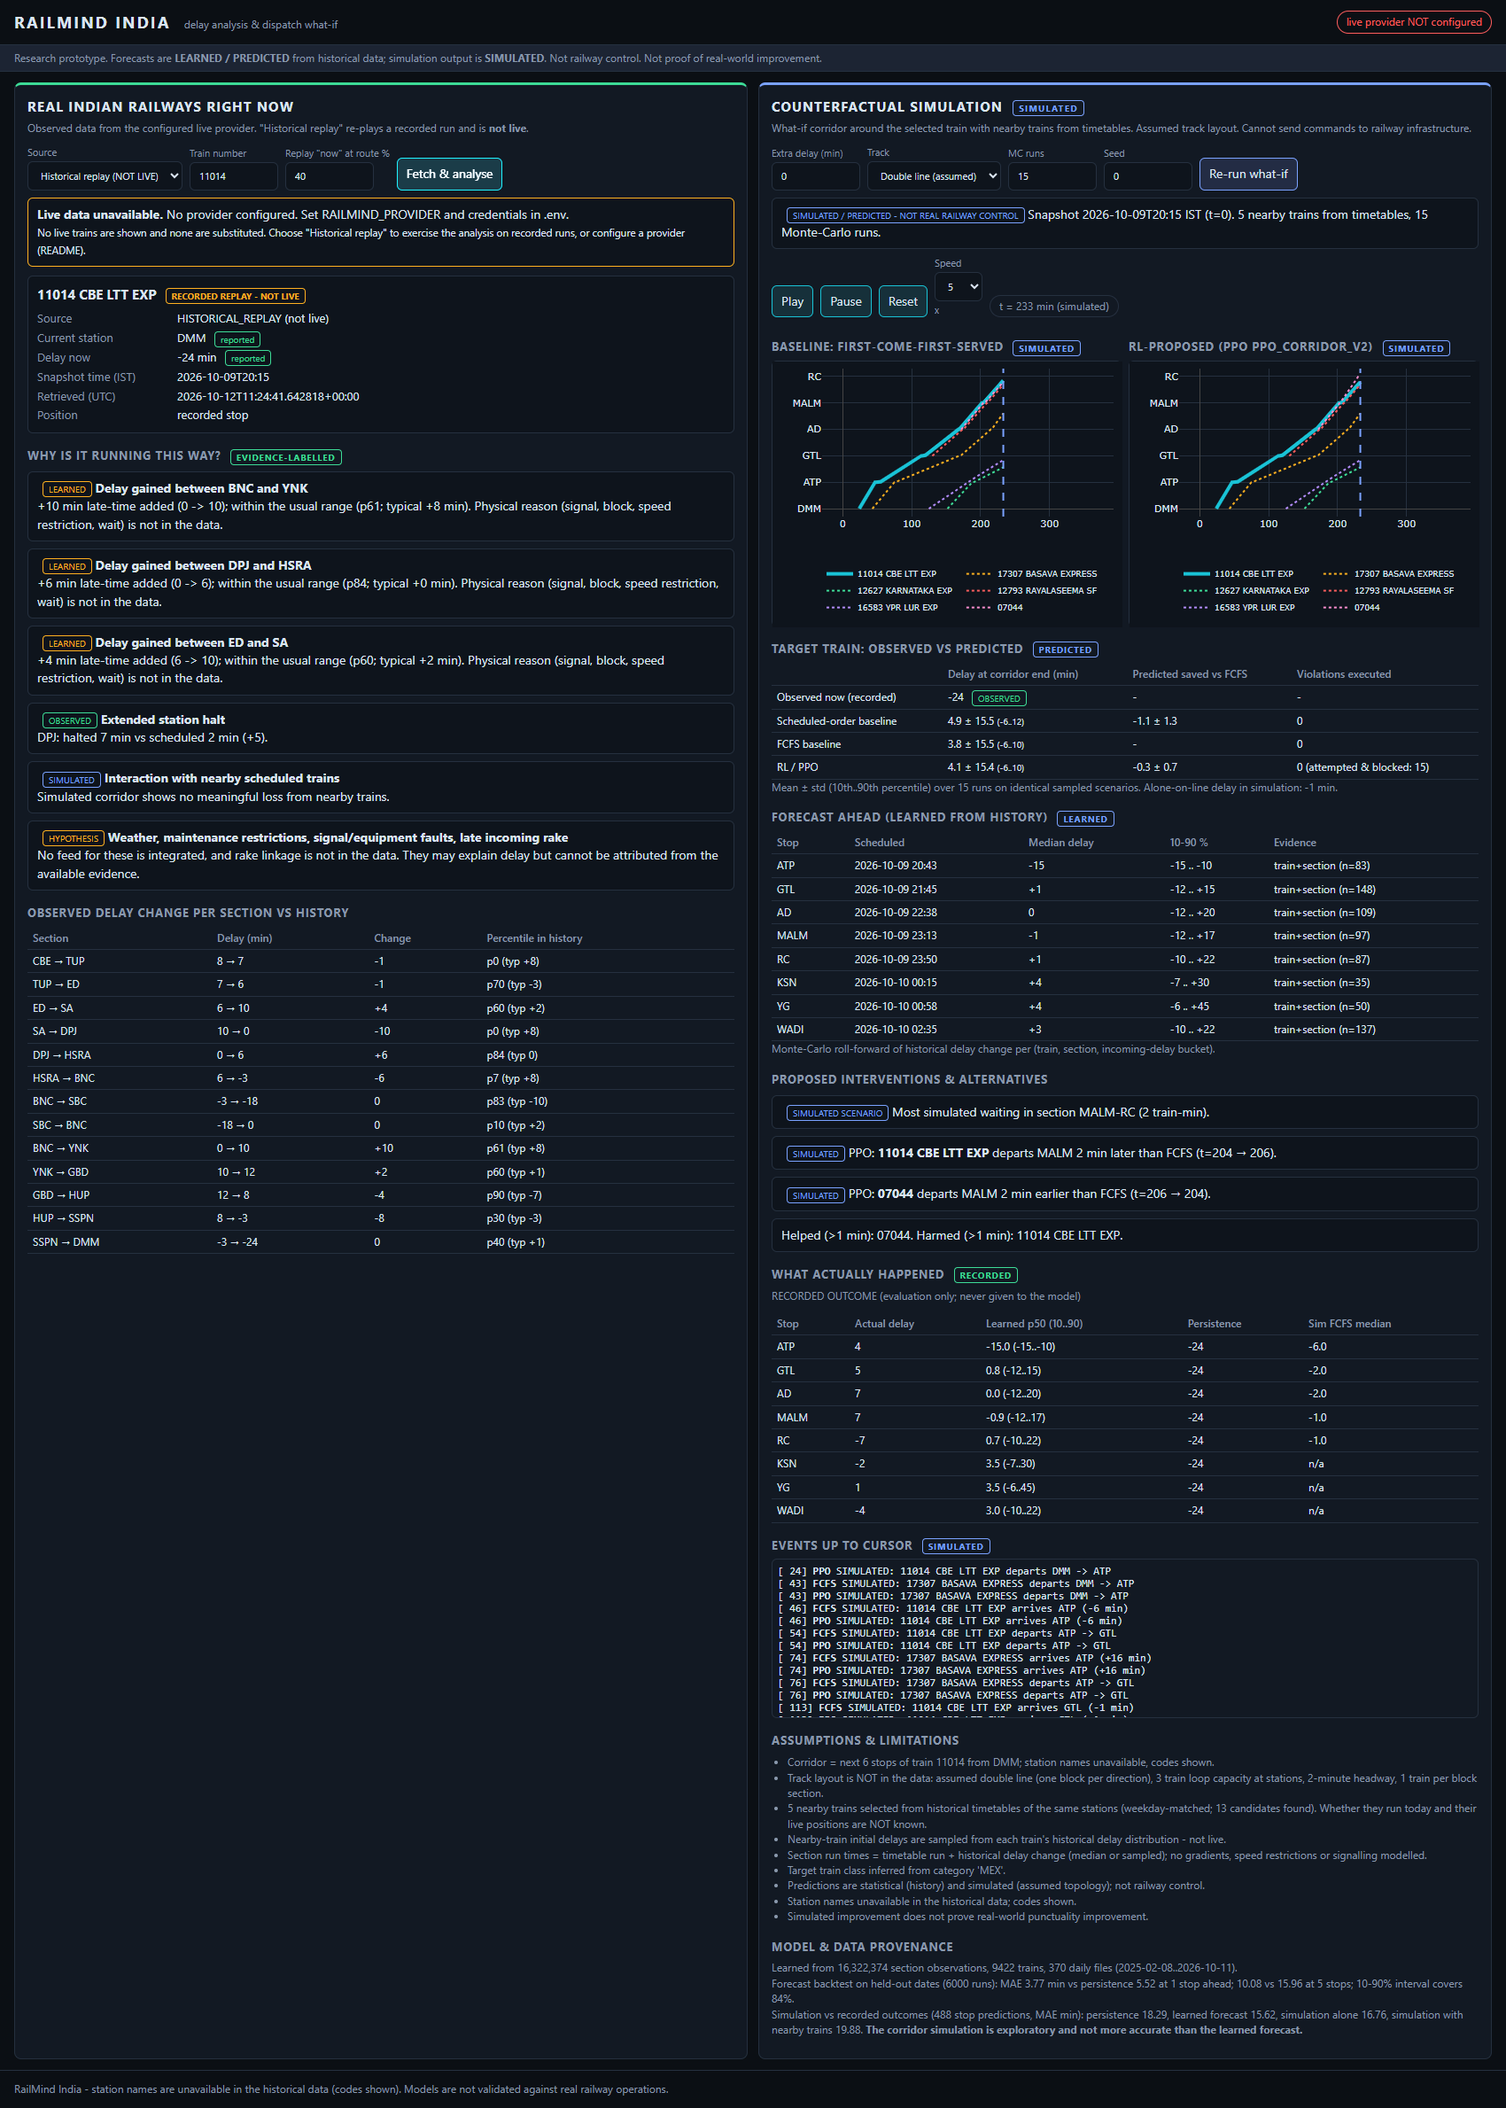
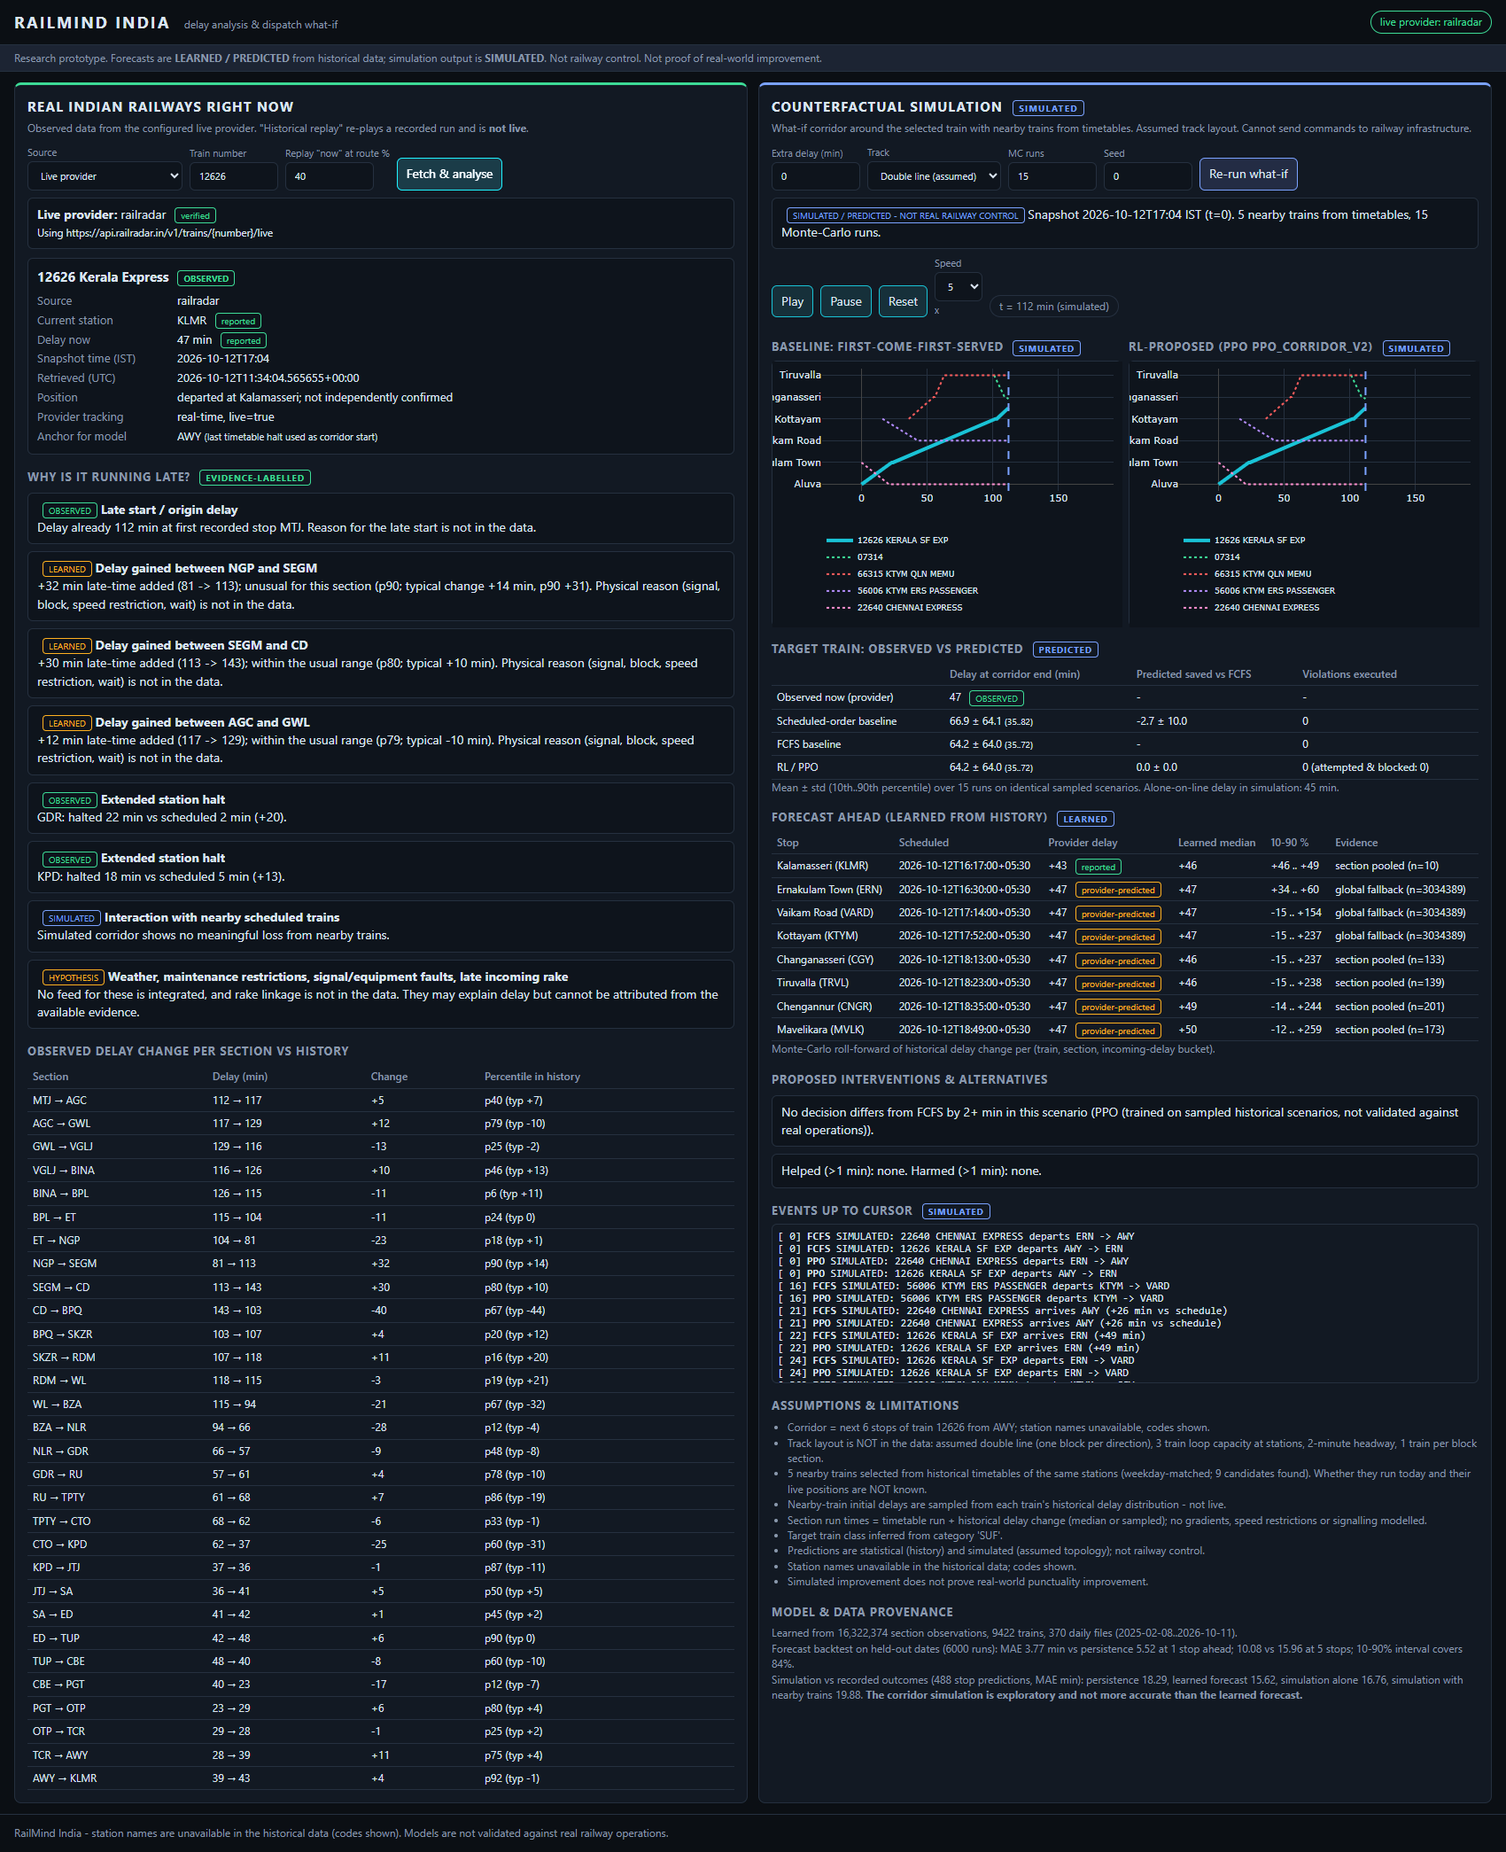
Verify live provider adapter against real responses, use provider names and provenance, add live dashboard capture

Changed region(s): [[0.0, 0.0, 1.0, 0.9952], [0.3118, 0.2177, 0.3429, 0.2799], [0.3741, 0.2488, 0.4053, 0.2799]]

diff --git a/static/app.js b/static/app.js
@@ -82,7 +82,7 @@ async function run() {
 function renderAll() {
   const a = state.a, replay = a.source.startsWith("HISTORICAL");
   const rows = (a.learned_forecast.stops || []).map((r) =>
-    `<tr><td>${esc(r.station)}</td><td>${esc(r.sched_arr || "-")}</td><td>${sgn(r.p50)}</td><td>${sgn(r.p10)} .. ${sgn(r.p90)}</td><td>${r.evidence_level === 1 ? "train+section" : r.evidence_level === 2 ? "section pooled" : "global fallback"} (n=${r.support_n})</td></tr>`).join("");
+    `<tr><td>${esc(r.name ? r.name + " (" + r.station + ")" : r.station)}</td><td>${esc(r.sched_arr || "-")}</td><td>${r.provider_estimate === null || r.provider_estimate === undefined ? "-" : sgn(r.provider_estimate) + (r.provenance === "predicted" ? ' <span class="tag calc">provider-predicted</span>' : ' <span class="tag obs">reported</span>')}</td><td>${sgn(r.p50)}</td><td>${sgn(r.p10)} .. ${sgn(r.p90)}</td><td>${r.evidence_level === 1 ? "train+section" : r.evidence_level === 2 ? "section pooled" : "global fallback"} (n=${r.support_n})</td></tr>`).join("");
   $("train").innerHTML = `<div class="card">
     <h4>${esc(a.train_no)} ${esc(a.train_name || "(name not supplied)")} <span class="tag ${replay ? "calc" : "obs"}">${replay ? "RECORDED REPLAY - NOT LIVE" : "OBSERVED"}</span></h4>
     <div class="kv">
@@ -91,7 +91,9 @@ function renderAll() {
       <div>Delay now</div><div>${fx(a.observed_delay_min)} min <span class="tag obs">reported</span></div>
       <div>Snapshot time (IST)</div><div>${esc(a.now_ist)}</div>
       <div>Retrieved (UTC)</div><div>${esc(a.retrieved_utc)}</div>
-      <div>Position</div><div>${replay ? "recorded stop" : "provider-reported; not independently confirmed"}</div>
+      <div>Position</div><div>${replay ? "recorded stop" : esc((a.tracking && a.tracking.location_status) || "provider-reported") + " at " + esc((a.station_names && a.station_names[a.current_station]) || a.current_station) + "; not independently confirmed"}</div>
+      <div>Provider tracking</div><div>${esc((a.tracking && a.tracking.tracking_mode) || "n/a")}, live=${esc(String(a.tracking && a.tracking.is_live))}</div>
+      <div>Anchor for model</div><div>${esc(a.anchor_station || "n/a")} <small>(last timetable halt used as corridor start)</small></div>
     </div>
     ${a.warning ? `<div class="box warn">${esc(a.warning)}</div>` : ""}
   </div>`;
@@ -101,7 +103,7 @@ function renderAll() {
     (a.causes || []).map((c) => `<div class="box"><span class="tag ${TAG[c.label] || "calc"}">${esc(c.label)}</span> <b>${esc(c.cause)}</b><br>${esc(c.text)}</div>`).join("") +
     (secs ? `<h3>Observed delay change per section vs history</h3><table><tr><th>Section</th><th>Delay (min)</th><th>Change</th><th>Percentile in history</th></tr>${secs}</table>` : "");
   $("forecast").innerHTML = rows
-    ? `<table><tr><th>Stop</th><th>Scheduled</th><th>Median delay</th><th>10-90 %</th><th>Evidence</th></tr>${rows}</table><p class="sub">${esc(a.learned_forecast.method)}.</p>`
+    ? `<table><tr><th>Stop</th><th>Scheduled</th><th>Provider delay</th><th>Learned median</th><th>10-90 %</th><th>Evidence</th></tr>${rows}</table><p class="sub">${esc(a.learned_forecast.method)}.</p>`
     : "<p class='sub'>No forecast available.</p>";
   const sim = a.simulation;
   if (!sim || !sim.available) {

diff --git a/templates/index.html b/templates/index.html
@@ -67,7 +67,7 @@
     <div id="prov" class="sub"></div>
   </section>
 </main>
-<footer>RailMind India - station names are unavailable in the historical data (codes shown). Models are not validated against real railway operations.</footer>
+<footer>RailMind India - station names come from the live provider when supplied (historical data has codes only). Models are not validated against real railway operations.</footer>
 <script src="{{ url_for('static', filename='app.js') }}"></script>
 </body>
 </html>

diff --git a/railmind/analysis.py b/railmind/analysis.py
@@ -131,13 +131,28 @@ def analyze(kn, status: dict, model=None, now: Optional[datetime] = None, n_mc: 
     raw = status.get("raw") or {}
     if now is None:
         now = _ts(raw.get("now_ist")) if isinstance(raw, dict) else None
+    if now is None and "replay" not in str(status.get("provider", "")).lower():
+        now = ist_now()                  # live: snapshot time is retrieval time
     now = now or ist_now()
     obs = observed_facts(kn, status)
     cur_code = status.get("current_station_code") or status.get("current_station")
+    sm = status.get("stops_meta") or {}
+    names = {s_["code"]: s_.get("name") for s_ in (status.get("stops") or []) if s_.get("code") and s_.get("name")}
+    names = {c_: n_ for c_, n_ in names.items() if n_ != c_}
+    anchor = cur_code
+    if kn is not None and kn.timetable(tno) and find_stop_index(kn, tno, cur_code) is None:
+        # provider position is not a timetable stop (e.g. a non-halt): anchor to the last known halt before it
+        codes_route = [s_["code"] for s_ in obs["stops"]]
+        cur_i = obs["cur_idx"] if obs["cur_idx"] is not None else 0
+        for c_ in reversed(codes_route[: cur_i + 1]):
+            if find_stop_index(kn, tno, c_) is not None:
+                anchor = c_
+                break
     known = kn is not None and kn.train_id(tno) >= 0 and kn.timetable(tno) is not None
     res = {"train_no": tno, "train_name": status.get("train_name"), "provider": status["provider"],
            "retrieved_utc": status.get("retrieved_utc"), "now_ist": now.isoformat(timespec="minutes"),
            "observed_delay_min": status.get("delay_min"), "current_station": cur_code,
+           "anchor_station": anchor, "station_names": names, "tracking": sm,
            "observed": {"sections": obs["sections"], "dwell": obs["dwell"]},
            "learned_model_available": bool(known), "limitations": [
                "Predictions are statistical (history) and simulated (assumed topology); not railway control.",
@@ -151,19 +166,26 @@ def analyze(kn, status: dict, model=None, now: Optional[datetime] = None, n_mc: 
     # --- learned roll-forward (data-driven "how will it run further") -----------------
     route = [s["code"] for s in obs["stops"]] or [s[0] for s in kn.timetable(tno)["stops"]]
     ci = obs["cur_idx"] if obs["cur_idx"] is not None else (route.index(cur_code) if cur_code in route else 0)
+    if anchor in route:
+        ci = route.index(anchor)
     ahead = route[ci: ci + 9]
     tt_sched = {s["code"]: s for s in obs["stops"]}
     roll = rollout(kn, tno, ahead, d0 + extra_delay, n=400, seed=seed) if len(ahead) > 1 else []
     for r in roll:
         s = tt_sched.get(r["station"], {})
         r["sched_arr"] = s.get("sched_arr")
+        r["name"] = names.get(r["station"])
+        r["provider_estimate"] = s.get("delay_min")
+        r["provenance"] = s.get("provenance")
     res["learned_forecast"] = {"method": "Monte-Carlo roll-forward of historical delay change per "
                                          "(train, section, incoming-delay bucket)",
                                "stops": roll, "label": "LEARNED / PREDICTED"}
     # --- counterfactual corridor ---------------------------------------------------
-    sc = build_scenario(kn, tno, cur_code, d0, now, seed=seed, single_line=single_line,
-                        extra_delay=extra_delay) if cur_code else None
+    cat_hint = sm.get("category") or sm.get("type")
+    sc = build_scenario(kn, tno, anchor, d0, now, seed=seed, single_line=single_line,
+                        extra_delay=extra_delay, category_hint=cat_hint) if anchor else None
     sim_info: dict = {}
+    names_map = names
     if sc is None:
         res["simulation"] = {"available": False, "reason": "Current station not on the learned timetable "
                                                           "or too close to route end."}
@@ -182,8 +204,8 @@ def analyze(kn, status: dict, model=None, now: Optional[datetime] = None, n_mc: 
         mc = {k: [] for k in det}
         stops_mc = {k: {} for k in det}
         for r in range(n_mc):
-            s2 = build_scenario(kn, tno, cur_code, d0, now, seed=1000 + r, sample=True,
-                                single_line=single_line, extra_delay=extra_delay)
+            s2 = build_scenario(kn, tno, anchor, d0, now, seed=1000 + r, sample=True,
+                                single_line=single_line, extra_delay=extra_delay, category_hint=cat_hint)
             for k in det:
                 c = run_policy(s2, POLICIES[k]) if k in POLICIES else run_ppo(model, s2)
                 p0 = c.summary()["per_train"][0]
@@ -194,7 +216,8 @@ def analyze(kn, status: dict, model=None, now: Optional[datetime] = None, n_mc: 
         def ms(v):
             return {"mean": round(statistics.fmean(v), 1), "std": round(statistics.pstdev(v), 1),
                     "p10": round(float(np.percentile(v, 10)), 1), "p90": round(float(np.percentile(v, 90)), 1)}
-        names = sc.station_names
+        names = [names_map.get(c_, c_) for c_ in sc.station_names]
+        sc.station_names = names
         pols = {}
         for k, c in det.items():
             s = c.summary()

diff --git a/railmind/providers/base.py b/railmind/providers/base.py
@@ -25,6 +25,7 @@ class ProviderUnavailable(Exception):
 class StationStop:
     seq: Optional[int] = None
     passed: Optional[bool] = None
+    provenance: Optional[str] = None      # provider flag, e.g. "predicted" (estimate, not confirmed)
     name: Optional[str] = None
     code: Optional[str] = None
     sched_arr: Optional[str] = None
@@ -207,7 +208,7 @@ class RailRadarProvider(BaseProvider):
     could read, so they are parsed defensively and `raw` is always kept.
     """
     name = "railradar"
-    verified = False
+    verified = True      # parsed against one real response (train 12301, 2026-10-12); see docs
 
     def __init__(self, cfg=Config, session=None):
         self.cfg = cfg
@@ -273,8 +274,14 @@ class RailRadarProvider(BaseProvider):
                 sched_dep=_first(r_, "scheduledDeparture", "scheduledDepartureTime", "std"),
                 actual_dep=_first(r_, "actualDeparture", "actualDepartureTime", "etd"),
                 delay_min=_int(_first(r_, "delayArrival", "delayDeparture")),
-                passed=None))
+                passed=(r_.get("status") in ("departed", "at-station", "arrived")) if r_.get("status") else None,
+                provenance=r_.get("provenance")))
+        info = d.get("train") or {}
         st.stops_meta = {"is_live": d.get("isLive"), "status": d.get("status"),
+                         "tracking_mode": d.get("trackingMode"),
+                         "location_status": loc.get("status"),
+                         "current_station_name": loc.get("stationName"),
+                         "category": info.get("category"), "type": info.get("type"),
                          "segment_progress": loc.get("segmentProgress"),
                          "is_actual_position": loc.get("isActualPosition")}
         for k in ("train_name", "current_station", "delay_min"):

diff --git a/README.md b/README.md
@@ -8,19 +8,20 @@ delay was gained, with evidence labels, (4) forecasts the delay ahead with uncer
 > Not railway control software. It never sends commands to infrastructure. Simulated gains do not
 > prove real-world punctuality gains.
 
-![RailMind dashboard - recorded replay (NOT live); live provider not configured](docs/screenshots/railmind-live-dashboard.png)
+![RailMind dashboard - live railradar data, train 12626, 2026-10-12 17:04 IST](docs/screenshots/railmind-live-dashboard.png)
 
-**Screenshot honesty:** a genuine capture of the running app, but with **no live data**: no provider
-credential exists in this environment. The left panel shows "live provider NOT configured" and a
-**recorded replay** (train 11014, labelled NOT LIVE) of an actual run from 2026-10-09 in the public
-dataset. It is not a real-time capture.
+**Screenshot:** genuine capture of the running app using the **live railradar provider** for train
+12626 (Kerala Express) at 2026-10-12 17:04 IST: provider-reported position "departed Kalamasseri",
+delay 47 min, tracking mode `real-time`. Rows marked *provider-predicted* are the provider's own
+estimates, not confirmed observations. Left: observed facts and evidence-labelled causes; right:
+learned forecast, simulated what-if and measured accuracy of each method.
 
 ## What is real, what is not
 
 | Item | Status |
 |---|---|
 | Historical data | **Real**: Hugging Face [`pjay-in/indian-railways-delays`](https://huggingface.co/datasets/pjay-in/indian-railways-delays) (cc-by-4.0). 370 daily files, 2025-02-08 .. 2026-10-11, 16.3 M section observations, 9 422 trains. An observed NTES-collected config (2026-10) plus a 2025-02..2026-02 config whose "actual" times are scheduled + reported delay. Station *names* are not in the data (codes only). |
-| Live status | **Not verified.** Adapters `railradar` (vendor docs; free sandbox reportedly 100 requests/month) and `rapidapi_irctc` exist but were never run against a live response (no key). NTES has no documented public API or data terms, so it is not scraped. |
+| Live status | **Verified once** (2026-10-12) with the `railradar` adapter against real responses for trains 12301 and 12626 (key kept only in the git-ignored `.env`). Free sandbox reportedly 100 requests/month; local budget caps and a 120 s cache apply. The `rapidapi_irctc` adapter remains unverified. NTES has no documented public API or data terms, so it is not scraped. |
 | Replay | `source=replay` re-plays the latest recorded run of a train, truncated at a stop ("now"). Labelled `HISTORICAL_REPLAY (not live)`. The recorded future is shown only afterwards, for evaluation. |
 | Nearby trains | From historical timetables of the same stations (weekday matched). Whether they run today and where they are right now is **not known**; their initial delays are sampled from history. |
 | Track layout | **Assumed** (double line, loop capacity 3, 2-min headway; single line optional). Not in any data. |
@@ -57,8 +58,9 @@ reset, speed.
 Create an account and key with your chosen provider, then in `.env` (copy `.env.example`):
 `RAILMIND_PROVIDER=railradar`, `RAILMIND_PROVIDER_API_KEY=...`. Budgets:
 `RAILMIND_MAX_CALLS_PER_MINUTE`, `RAILMIND_MAX_CALLS_PER_DAY`, `RAILMIND_MIN_REFRESH_SECONDS`
-(responses are cached). Compare `status.raw` with the vendor docs and adjust
-`RailRadarProvider.parse` if per-stop field names differ (unverified). `.env` is git-ignored.
+(responses are cached). Verified response fields: `trainName`, `delayMinutes`, `currentLocation`,
+`route[]` (`scheduledArrival`, `actualArrival`, `delayArrival`, `status`, `provenance`), `trackingMode`.
+`.env` is git-ignored; never commit the key.
 
 ### API
 `GET /api/health` - `GET /api/trains/<no>/status` - `GET /api/replay/trains` -
@@ -97,10 +99,18 @@ harmed 42 train-instances (more than 1 min). Differences are well inside noise: 
 improvement**. PPO requests blocked as unsafe: 4 336 (none executed). Not validated against real
 operations.
 
+## Live example (2026-10-12 17:04 IST, train 12626)
+Provider: 47 min late, departed Kalamasseri. Observed history: delay already 112 min at Mathura, peaked
+at 143 min (Nagpur..Chandrapur section +32 and +30, p90 and p80 of history), then recovered. Learned
+forecast median +46..+50 min for the next 7 halts (some stops use pooled or global fall-back evidence,
+shown in the table). Simulated alternatives: no decision differs from FCFS (no conflicts found).
+The observed halts at Gudur (+20) and Katpadi (+13) are reported facts; their cause is not in the data.
+
 ## Limitations
-- Live path unverified; the forecast model needs the downloaded data.
+- Live adapter checked on two trains only; some forecast stops fall back to pooled statistics.
 - In the "derived" config delay is one number per stop; dwell/run split is inferred.
 - No weather, maintenance, signalling or rake-link data; causes beyond observed deltas are hypotheses.
+- Simulation spread is large for late trains (Monte-Carlo std ~64 min in the live example).
 - Corridor at most 6 stops / about 5 h; train class inferred from category; no freight in the data.
 - Sources and provider research: [docs/SOURCES.md](docs/SOURCES.md).
 
